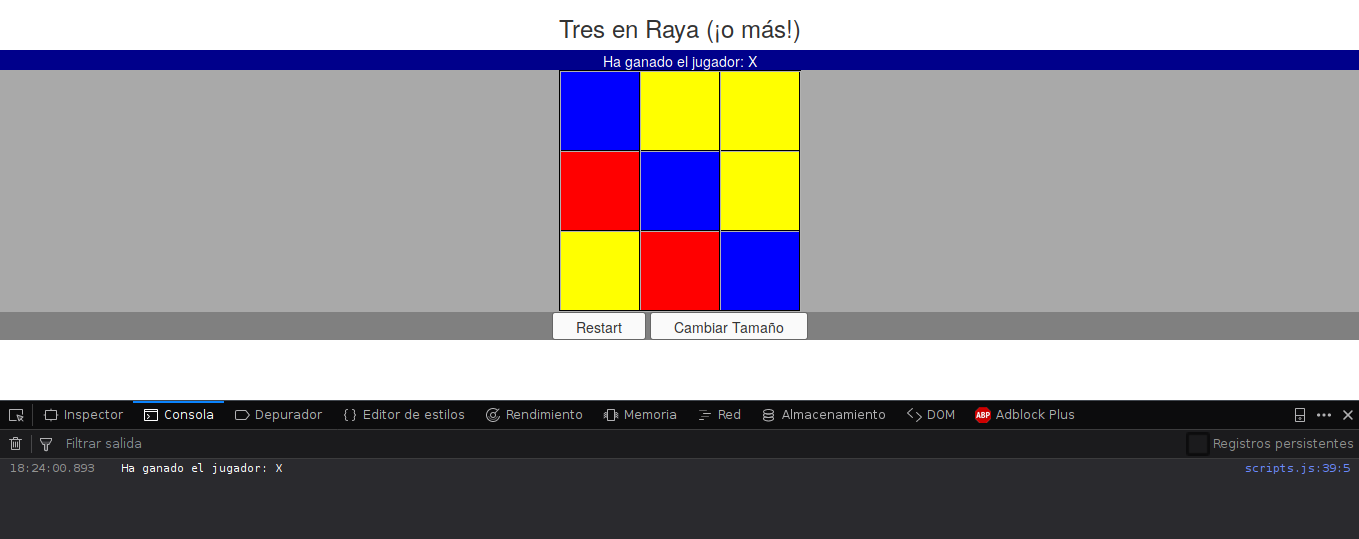
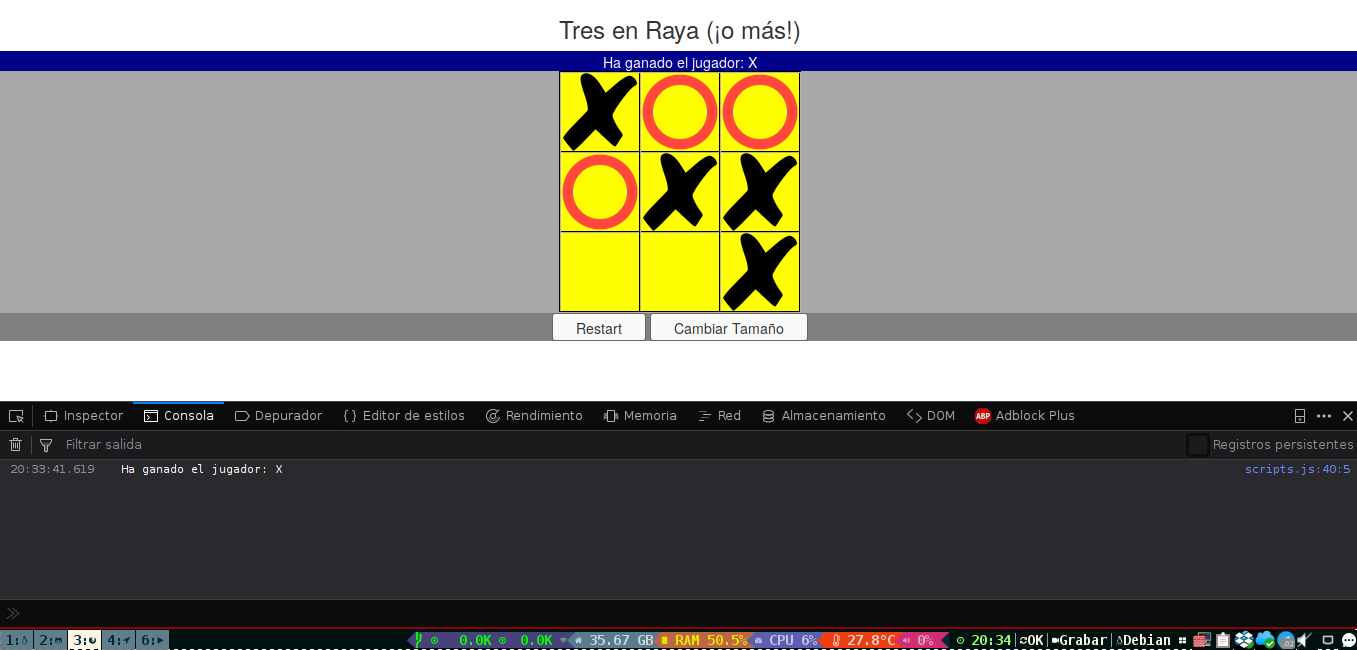
Mejoras y optimizaciones

diff --git a/assets/js/class/Tablero.js b/assets/js/class/Tablero.js
@@ -10,23 +10,14 @@
 class Tablero {
     constructor(inCasillas = 3, fichaTurno = 'X') {
         this._turno = fichaTurno; // Nombre de la clase que tiene el turno
-        this._numMovimientos = 0;
+        this._numMovimientos = 1;
         this._terminado = false;
 
         // Creo matriz del volumen de [inCasillas][inCasillas]
-        this._casillas = [];
-        for (let x = 0; x < inCasillas; x++) {
-            let c = this._casillas[x] = [];
-            while (c.length < inCasillas) {
-                c.push('');
-            }
-        }
-        /*
         this._casillas = Array(inCasillas).fill('');
         this._casillas.forEach((ele, idx, arr) => {
             arr[idx] = Array(inCasillas).fill('');
         });
-        */
     }
 
     /**
@@ -59,8 +50,14 @@ class Tablero {
      * @private
      */
     _aumentarMovimiento() {
+        var totalCasillas = this._casillas.length * this._casillas.length;
         this._numMovimientos++;
-        return this._numMovimientos > this._casillas;
+
+        if (this._numMovimientos > totalCasillas) {
+            this._terminado = true;
+        }
+
+        return this._terminado;
     }
 
     /**
@@ -75,7 +72,6 @@ class Tablero {
         for (let y in this._casillas) {
             if (this._casillas[0][y] instanceof claseFicha) {
                 coincidencias++;
-                console.log(y);
                 for (let x = 1; x < this._casillas.length; x++) {
                     if (this._casillas[x][y] instanceof claseFicha) {
                         coincidencias++;
@@ -179,11 +175,11 @@ class Tablero {
         if(this._casillas[x][y] instanceof BaseFicha) {
             return false;
         } else if (this._turno === 'X') {
-            this._casillas[x][y] = new Equis('#00009A',
+            this._casillas[x][y] = new Equis('',
                 'assets/images/equis.png'
             );
         } else if (this._turno === 'O') {
-            this._casillas[x][y] = new Circulo('#9A0000',
+            this._casillas[x][y] = new Circulo('',
                 'assets/images/circulo.png'
             );
         }
@@ -218,16 +214,16 @@ class Tablero {
             return ['empate', 'Esto es un claro caso de empate'];
         }
 
+        if (! this._colocarFicha(x, y)) {
+            return ['ficha', 'Ya hay una ficha en esta posición'];
+        }
+
         if(this._comprobarGanador()){
             this._terminado = true;
             return ['ganada', 'Ha ganado el jugador: ' + this._turno,
                 this._turno, //Jugador que ha ganado
                 this._numMovimientos, //Cantidad de movimientos
             ];
-        }
-
-        if (! this._colocarFicha(x, y)) {
-            return ['ficha', 'Ya hay una ficha en esta posición'];
         }
 
         this._cambiarJugador();

diff --git a/assets/js/scripts.js b/assets/js/scripts.js
@@ -62,7 +62,6 @@ function clickBox(me) {
         return false;
     } else if (jugada[0] === 'empate') {
         showInfo(jugada[1]);
-        showInfo();
     } else if (jugada[0] === 'ganada') {
         showInfo(jugada[1]);
     }
